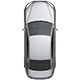
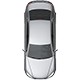
Implemented basic car physics and connected systems. The InstrumentCluster and PowerTrain System are in working condition now!

diff --git a/UniDebAutomatedCar/src/com/unideb/bosch/automatedcar/AutomatedCar.java b/UniDebAutomatedCar/src/com/unideb/bosch/automatedcar/AutomatedCar.java
@@ -7,7 +7,6 @@ import java.awt.TexturePaint;
 import java.awt.image.BufferedImage;
 import java.io.File;
 import java.io.IOException;
-import java.util.Random;
 
 import javax.imageio.ImageIO;
 
@@ -19,16 +18,15 @@ import com.unideb.bosch.instrumentclusterdisplay.VirtualDisplay_Invoker;
 
 public final class AutomatedCar {
 
-	private int x = 100;
-	private int y = 100;
-	private double angle = 0;
+	private float carPos_X = 2500f;
+	private float carPos_Y = 2000f;
 	private PowertrainSystem powertrainSystem;
 	private BufferedImage carImage;
 	private Rectangle carImageRectange;
-	private float carHeading = 0f;
-	private float carSpeed = 2f;
-	private float steerAngle = 33f;
-	private float wheelBase = 160f; // the distance between the front and back
+	public float carSpeed = 0f;
+	private float steerAngle = 0f;
+	public float carHeading_Angle = 0f;
+	public final float wheelBase = 160f;
 
 	public AutomatedCar() {
 		try {
@@ -42,7 +40,6 @@ public final class AutomatedCar {
 		this.powertrainSystem = new PowertrainSystem();
 		// The rest of the components use the VirtualFunctionBus to communicate,
 		// they do not communicate with the car itself
-
 		// Place a driver into our car
 		new Driver();
 		new VirtualDisplay_Invoker(this, new InstrumentClusterLogic(this.powertrainSystem));
@@ -50,48 +47,67 @@ public final class AutomatedCar {
 
 	public void drawCar(Graphics g) {
 		Graphics2D gMatrix_Car = (Graphics2D) g.create();
-		int carMidPoint_X = this.x + this.carImage.getWidth();
-		// only width and height since the car is scaled by a factor of 2
-		int carMidPoint_Y = this.y + this.carImage.getHeight();
-		this.carImageRectange.setLocation(this.x, this.y);
+		float carMidPoint_X = this.carPos_X;
+		float carMidPoint_Y = this.carPos_Y;
+		int carImageWidth_Half = this.carImage.getWidth();
+		// because the car is scaled by 2 so the half of it is the original
+		int carImageHeight_Half = this.carImage.getHeight();
+		this.carImageRectange.setLocation((int) this.carPos_X - carImageWidth_Half, (int) this.carPos_Y - carImageHeight_Half);
 		TexturePaint carPaint = new TexturePaint(this.carImage, this.carImageRectange);
 		gMatrix_Car.setPaint(carPaint);
-		gMatrix_Car.rotate(this.carHeading, carMidPoint_X, carMidPoint_Y);
-		gMatrix_Car.fillRect(this.x, this.y, this.carImage.getWidth() * 2, this.carImage.getHeight() * 2);
+		gMatrix_Car.rotate(-this.carHeading_Angle, carMidPoint_X, carMidPoint_Y);
+		gMatrix_Car.fillRect((int) this.carPos_X - carImageWidth_Half, (int) this.carPos_Y - carImageHeight_Half,
+				carImageWidth_Half * 2, carImageHeight_Half * 2);
 	}
 
 	public void drive() {
 		// Call components
 		VirtualFunctionBus.cyclic();
 		// Update the position and orientation of the car
-		//this.x = powertrainSystem.getPositionX();
-		//this.y = powertrainSystem.getPositionY();
-		//this.angle = powertrainSystem.getAngle();
-		//
-		float frontWheel_X = (this.x + this.carImage.getWidth()) + ((wheelBase / 2f) * (float) (Math.cos(carHeading)));
-		float frontWheel_Y = (this.y + this.carImage.getHeight()) + ((wheelBase / 2f) * (float) (Math.sin(carHeading)));
-		float backWheel_X = (this.x + this.carImage.getWidth()) - ((wheelBase / 2f) * (float) (Math.cos(carHeading)));
-		float backWheel_Y = (this.y + this.carImage.getHeight()) - ((wheelBase / 2f) * (float) (Math.sin(carHeading)));
-		backWheel_X += (carSpeed * Math.cos(carHeading));
-		backWheel_Y += (carSpeed * Math.sin(carHeading));
-		frontWheel_X += (carSpeed * Math.cos(carHeading + steerAngle));
-		frontWheel_Y += (carSpeed * Math.sin(carHeading + steerAngle));
-		float newLocation_X = (frontWheel_X + backWheel_X) / 2f;
-		float newLocation_Y = (frontWheel_Y + backWheel_Y) / 2f;
-		this.powertrainSystem.positionX = (int) newLocation_X;
-		this.powertrainSystem.positionY = (int) newLocation_Y;
-		this.carHeading = (float) Math.atan2(frontWheel_Y - backWheel_Y, frontWheel_X - backWheel_X);
+		this.steerAngle = this.powertrainSystem.getSteeringWheelAngle();
+		this.carSpeed = this.powertrainSystem.getCarSpeed();
+		this.carPhysics();
+		this.teleportCarIntoBounds();
 	}
 
-	public int getX() {
-		return x;
+	private void carPhysics() {
+		float frontWheel_X = this.carPos_X + (this.wheelBase / 2f) * (float) Math.sin(this.carHeading_Angle);
+		float frontWheel_Y = this.carPos_Y + (this.wheelBase / 2f) * (float) Math.cos(this.carHeading_Angle);
+		float backWheel_X = this.carPos_X - (this.wheelBase / 2f) * (float) Math.sin(this.carHeading_Angle);
+		float backWheel_Y = this.carPos_Y - (this.wheelBase / 2f) * (float) Math.cos(this.carHeading_Angle);
+		frontWheel_X += this.carSpeed * (float) Math.sin(this.carHeading_Angle + Math.toRadians(this.steerAngle));
+		frontWheel_Y += this.carSpeed * (float) Math.cos(this.carHeading_Angle + Math.toRadians(this.steerAngle));
+		backWheel_X += this.carSpeed * (float) Math.sin(this.carHeading_Angle);
+		backWheel_Y += this.carSpeed * (float) Math.cos(this.carHeading_Angle);
+		this.carPos_X = (frontWheel_X + backWheel_X) / 2f;
+		this.carPos_Y = (frontWheel_Y + backWheel_Y) / 2f;
+		this.carHeading_Angle = (float) Math.atan2(frontWheel_X - backWheel_X, frontWheel_Y - backWheel_Y);
+	}
+	
+	private void teleportCarIntoBounds() {
+		if(this.carPos_X < 0){
+			this.carPos_X = 5000;
+		}
+		if(this.carPos_X > 5000){
+			this.carPos_X = 0;
+		}
+		if(this.carPos_Y < 0){
+			this.carPos_Y = 4000;
+		}
+		if(this.carPos_Y > 4000){
+			this.carPos_Y = 0;
+		}
 	}
 
-	public int getY() {
-		return y;
+	public float getX() {
+		return this.carPos_X;
 	}
 
-	public double getAngle() {
-		return angle;
+	public float getY() {
+		return this.carPos_Y;
+	}
+
+	public float getAngle() {
+		return this.steerAngle;
 	}
 }

diff --git a/UniDebAutomatedCar/src/com/unideb/bosch/automatedcar/VirtualWorld.java b/UniDebAutomatedCar/src/com/unideb/bosch/automatedcar/VirtualWorld.java
@@ -3,8 +3,6 @@ package com.unideb.bosch.automatedcar;
 import java.awt.Graphics;
 import java.awt.Graphics2D;
 import java.awt.Image;
-import java.awt.geom.AffineTransform;
-import java.awt.image.AffineTransformOp;
 import java.awt.image.BufferedImage;
 import java.io.File;
 import java.io.IOException;
@@ -13,101 +11,96 @@ import javax.imageio.ImageIO;
 import javax.swing.JFrame;
 import javax.swing.JPanel;
 
-import com.unideb.bosch.automatedcar.AutomatedCar;
-
 public final class VirtualWorld {
-	
+
 	// Parameters
 	private static final int cyclePeriod = 100;
 	private static final String backgroundImagePath = "./world/road_1.png";
-	private static final String carImagePath = "./world/bosch1.png";
-	
+
 	private static WorldObjectParser world = WorldObjectParser.getInstance();
 	private static AutomatedCar car = new AutomatedCar();
-	
-    private static JFrame frame = new JFrame("UniDeb Automated Car Project");
-    private static BufferedImage backgroundImage;
-    private static BufferedImage carImage;
-	
-    public static Image resizeImage(Image image, int width, int height, boolean max) {
-      if (width < 0 && height > 0) {
-        return resizeImageBy(image, height, false);
-      } else if (width > 0 && height < 0) {
-        return resizeImageBy(image, width, true);
-      } else if (width < 0 && height < 0) {
-        return image;
-      }
-      int currentHeight = image.getHeight(null);
-      int currentWidth = image.getWidth(null);
-      int expectedWidth = (height * currentWidth) / currentHeight;
-      int size = height;
-      if (max && expectedWidth > width) {
-        size = width;
-      } else if (!max && expectedWidth < width) {
-        size = width;
-      }
-      return resizeImageBy(image, size, (size == width));
-    }
 
-    public static Image resizeImageBy(Image image, int size, boolean setWidth) {
-      if (setWidth) {
-        return image.getScaledInstance(size, -1, Image.SCALE_FAST);
-      } else {
-        return image.getScaledInstance(-1, size, Image.SCALE_FAST);
-      }
-    }
-    
-	private static void refreshFrame() {
-	    frame.invalidate();
-	    frame.validate();
-	    frame.repaint();
+	private static JFrame frame = new JFrame("UniDeb Automated Car Project");
+	private static BufferedImage backgroundImage;
+
+	public static Image resizeImage(Image image, int width, int height, boolean max) {
+		if (width < 0 && height > 0) {
+			return resizeImageBy(image, height, false);
+		} else if (width > 0 && height < 0) {
+			return resizeImageBy(image, width, true);
+		} else if (width < 0 && height < 0) {
+			return image;
+		}
+		int currentHeight = image.getHeight(null);
+		int currentWidth = image.getWidth(null);
+		int expectedWidth = (height * currentWidth) / currentHeight;
+		int size = height;
+		if (max && expectedWidth > width) {
+			size = width;
+		} else if (!max && expectedWidth < width) {
+			size = width;
+		}
+		return resizeImageBy(image, size, (size == width));
 	}
-	
+
+	public static Image resizeImageBy(Image image, int size, boolean setWidth) {
+		if (setWidth) {
+			return image.getScaledInstance(size, -1, Image.SCALE_FAST);
+		} else {
+			return image.getScaledInstance(-1, size, Image.SCALE_FAST);
+		}
+	}
+
+	private static void refreshFrame() {
+		frame.invalidate();
+		frame.validate();
+		frame.repaint();
+	}
+
 	public static void main(String[] args) {
 
 		try {
 			// Load background image
-			backgroundImage =  ImageIO.read(new File(backgroundImagePath));
-			// Load car image
-			carImage =  ImageIO.read(new File(carImagePath));
+			backgroundImage = ImageIO.read(new File(backgroundImagePath));
 		} catch (IOException e1) {
 			e1.printStackTrace();
 		}
-		
+
 		frame.setDefaultCloseOperation(JFrame.EXIT_ON_CLOSE);
-		frame.add(new JPanel()
-		{
+		frame.add(new JPanel() {
 			private static final long serialVersionUID = 1L;
+
 			public void paintComponent(Graphics g) {
 				// Use a buffered image as our canvas
-				BufferedImage worldImage = new BufferedImage(world.getWidth(), world.getHeight(), BufferedImage.TYPE_INT_RGB);
+				BufferedImage worldImage = new BufferedImage(world.getWidth(), world.getHeight(),
+						BufferedImage.TYPE_INT_RGB);
 				Graphics2D worldDisplay = worldImage.createGraphics();
 				// Draw the background
 				worldDisplay.drawImage(backgroundImage, 0, 0, null);
 				// Draw the car
-				//AffineTransformOp scale = new AffineTransformOp(AffineTransform.getScaleInstance(2, 2), AffineTransformOp.TYPE_BILINEAR);
+				// AffineTransformOp scale = new
+				// AffineTransformOp(AffineTransform.getScaleInstance(2, 2),
+				// AffineTransformOp.TYPE_BILINEAR);
 				car.drawCar(worldDisplay);
-				//worldDisplay.drawImage(scale.filter(carImage, null), car.getX(), car.getY(), null);
+				// worldDisplay.drawImage(scale.filter(carImage, null),
+				// car.getX(), car.getY(), null);
 				g.drawImage(resizeImage(worldImage, frame.getWidth(), frame.getHeight(), true), 0, 0, this);
 				// Resize the display to fit the window
 			}
-		}
-		);
-	    
-	    frame.validate();
-	    frame.setSize(800, 600);
-	    frame.setExtendedState(JFrame.MAXIMIZED_BOTH); 
-	    frame.setVisible(true);
-	        
-	    while(true)
-	    {   	
-	    	try {
-	    		car.drive();
-		    	refreshFrame();
+		});
+		frame.validate();
+		frame.setSize(800, 600);
+		frame.setExtendedState(JFrame.MAXIMIZED_BOTH);
+		frame.setVisible(true);
+
+		while (true) {
+			try {
+				car.drive();
+				refreshFrame();
 				Thread.sleep(cyclePeriod);
 			} catch (InterruptedException e) {
 				e.printStackTrace();
 			}
-	    }
+		}
 	}
 }

diff --git a/UniDebAutomatedCar/src/com/unideb/bosch/instrumentclusterdisplay/VirtualDisplaySurface.java b/UniDebAutomatedCar/src/com/unideb/bosch/instrumentclusterdisplay/VirtualDisplaySurface.java
@@ -152,7 +152,7 @@ public class VirtualDisplaySurface extends JPanel {
 		gMatrix_Icons.setPaint(steeringWheel_Paint);
 		int wheelMidPoint_X = 640;
 		int wheelMidPoint_Y = 128;
-		gMatrix_Icons.rotate(Math.toRadians(steeringWheel_Angle), wheelMidPoint_X, wheelMidPoint_Y);
+		gMatrix_Icons.rotate(-Math.toRadians(steeringWheel_Angle), wheelMidPoint_X, wheelMidPoint_Y);
 		gMatrix_Icons.fillRect(iconLoc_X, iconLoc_Y, steeringWheel.getWidth(), steeringWheel.getHeight());
 		//
 		gMatrix_KMH.dispose();
@@ -167,14 +167,14 @@ public class VirtualDisplaySurface extends JPanel {
 		doDrawing(g);
 	}
 
-	public void set_Actual_KMH_Needle_Angle(int angle) {
-		angle = truncateAngle(angle, 245);
-		this.actual_KMH_Needle_Angle = angle;
+	public void set_Actual_KMH_Needle_Angle(int kmh) {
+		float actKMH_needleIndicator_Angle = (kmh / 120f) * 245;
+		this.actual_KMH_Needle_Angle = (int) actKMH_needleIndicator_Angle;
 	}
 
-	public void set_Actual_RPM_Needle_Angle(int angle) {
-		angle = truncateAngle(angle, 255);
-		this.actual_RPM_Needle_Angle = angle;
+	public void set_Actual_RPM_Needle_Angle(int rpm) {
+		float actRPM_needleIndicator_Angle = (rpm / 9000f) * 255;
+		this.actual_RPM_Needle_Angle = (int) actRPM_needleIndicator_Angle;
 	}
 
 	public void set_Actual_R(boolean state) {

diff --git a/UniDebAutomatedCar/src/com/unideb/bosch/instrumentclusterdisplay/InstrumentClusterLogic.java b/UniDebAutomatedCar/src/com/unideb/bosch/instrumentclusterdisplay/InstrumentClusterLogic.java
@@ -27,7 +27,7 @@ public class InstrumentClusterLogic extends SystemComponent {
 	@Override
 	public void cyclic() {
 		this.blinkingTurnSignals();
-		this.writeInTerminalInfos();
+		//this.writeInTerminalInfos();
 	}
 
 	@Override
@@ -43,7 +43,7 @@ public class InstrumentClusterLogic extends SystemComponent {
 			break;
 		case SignalDatabase.VEHICLE_SPEED:
 			// 0 120 1 KM/H -
-			this.data_vehicle_speed = actValue;
+			this.data_vehicle_speed =Math.abs(actValue);
 			break;
 		case SignalDatabase.MOTOR_RPM:
 			// 0 9000 1 RPM -
